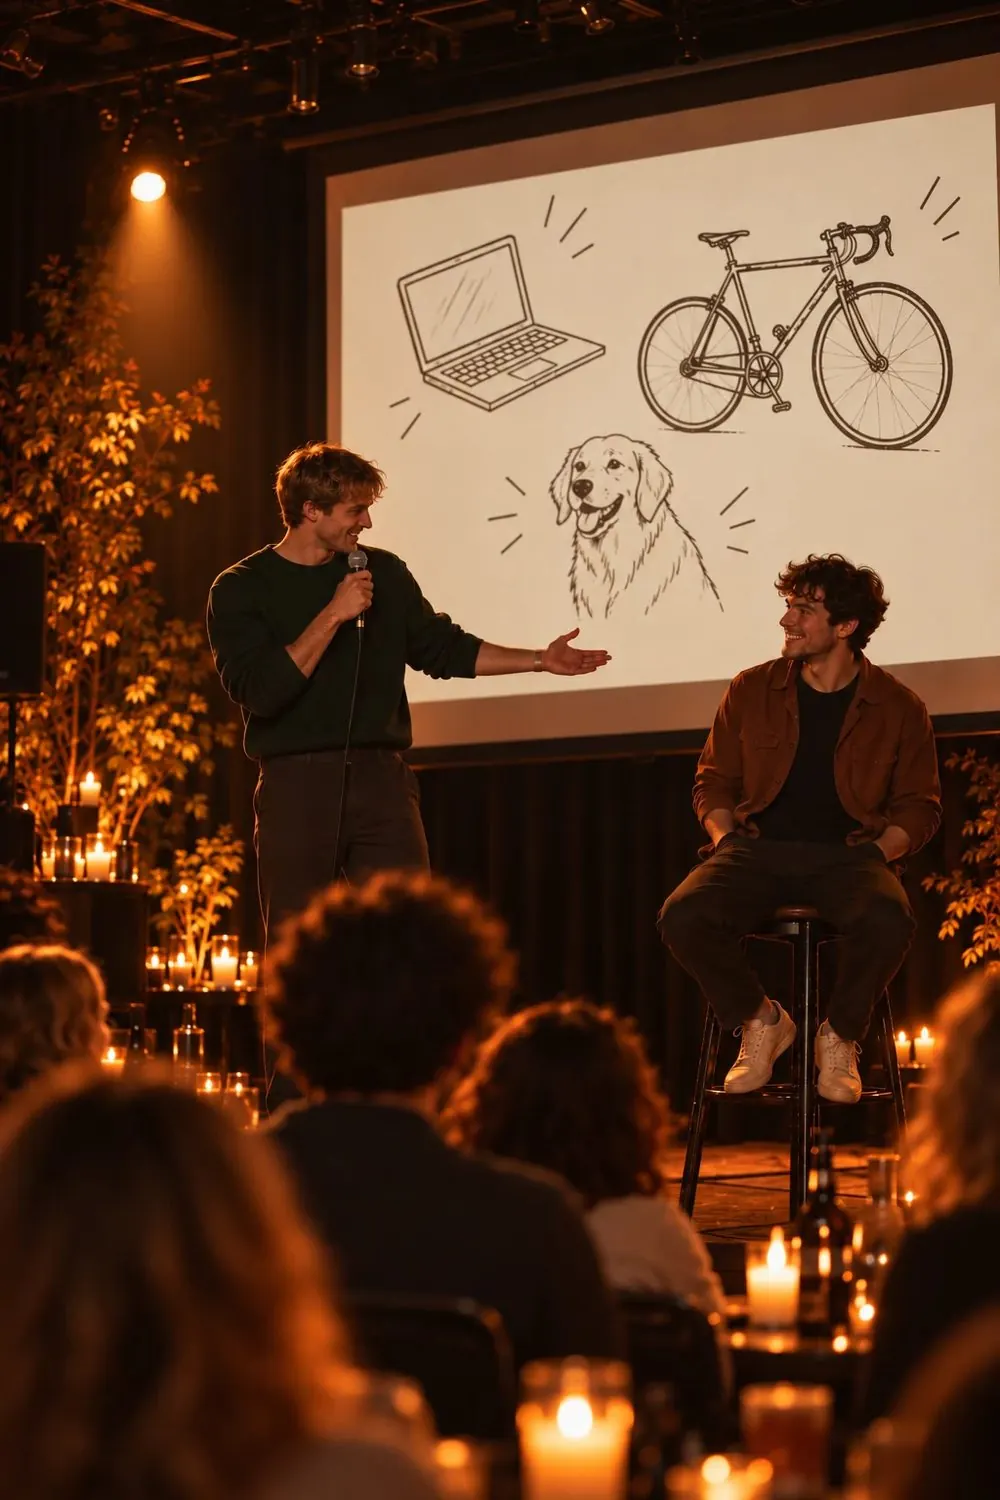
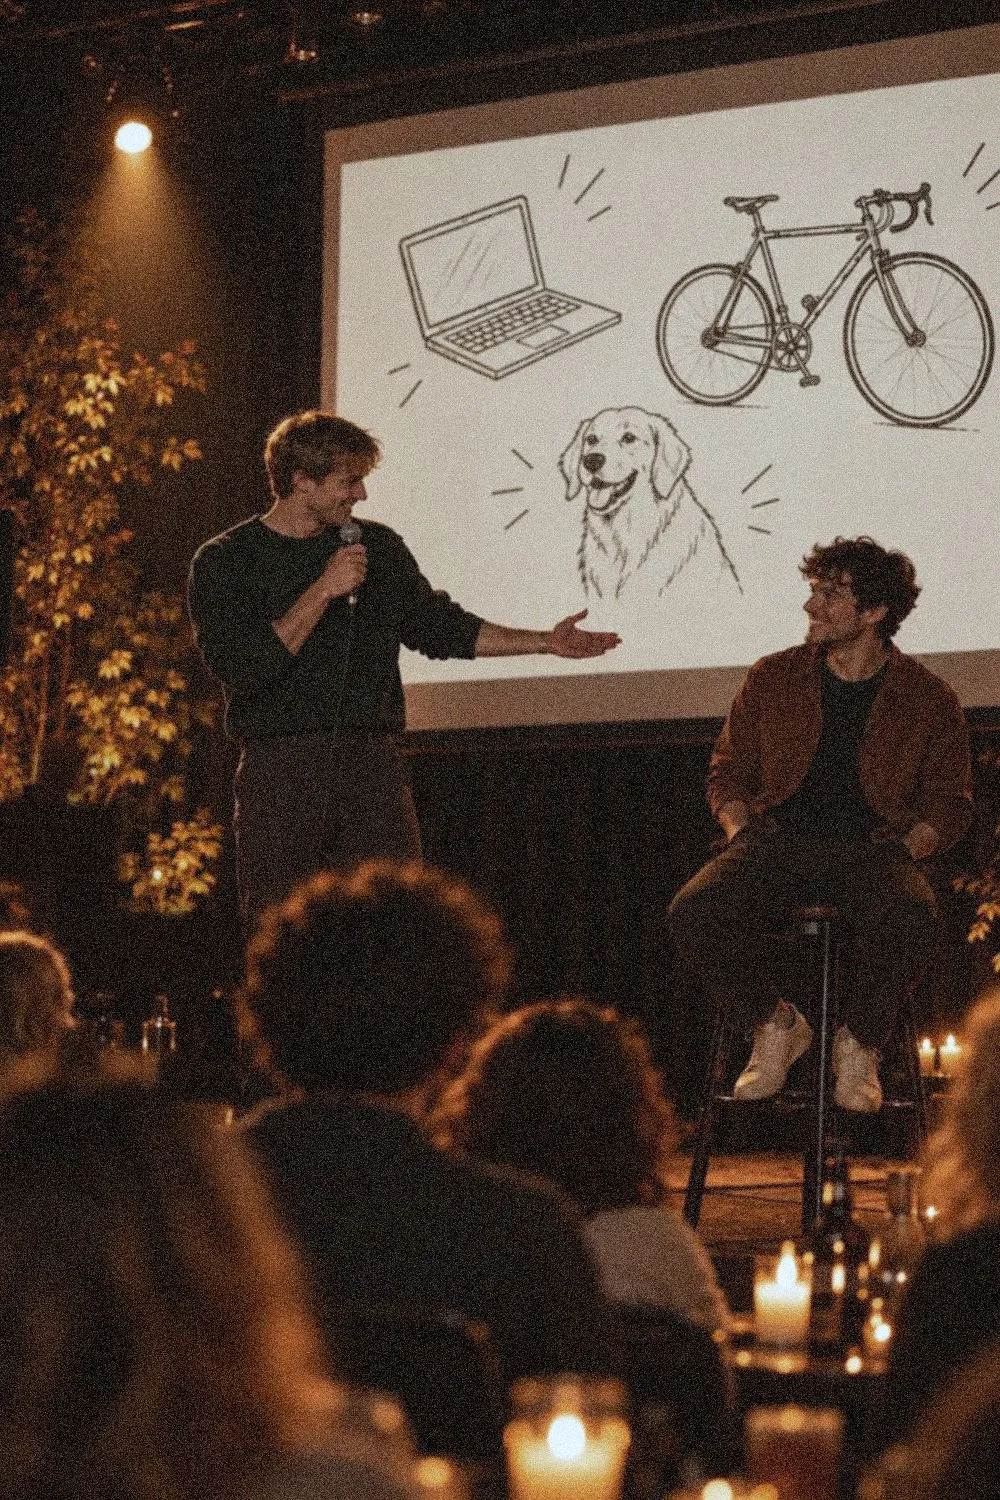
Fotka pódia: prirodzenejší vzhľad, bez sviečok za prezentujúcim

diff --git a/index.html b/index.html
@@ -189,7 +189,7 @@
             </div>
           </div>
           <div class="hero-photo podium-photo">
-            <img class="hero-img" loading="lazy" src="img/podium-prezentacia.webp?v=3" srcset="img/podium-prezentacia-600.webp?v=3 600w, img/podium-prezentacia-800.webp?v=3 800w, img/podium-prezentacia.webp?v=3 1000w" sizes="(max-width: 760px) 100vw, 40vw" alt="Kamarát na pódiu s mikrofónom predstavuje svojho single kamaráta, za nimi plátno s obrázkami jeho záľub" width="1000" height="1500">
+            <img class="hero-img" loading="lazy" src="img/podium-prezentacia.webp?v=4" srcset="img/podium-prezentacia-600.webp?v=4 600w, img/podium-prezentacia-800.webp?v=4 800w, img/podium-prezentacia.webp?v=4 1000w" sizes="(max-width: 760px) 100vw, 40vw" alt="Kamarát na pódiu s mikrofónom predstavuje svojho single kamaráta, za nimi plátno s obrázkami jeho záľub" width="1000" height="1500">
             <ul class="ifacts ifacts-ticket ifacts-lime ifacts-2x2">
               <li><p class="label">Na pódiu</p><strong>5 žien + 5 mužov</strong></li>
               <li><p class="label">Prezentácia</p><strong>max. 5 minút</strong></li>

diff --git a/single-show.html b/single-show.html
@@ -168,7 +168,7 @@
             </div>
           </div>
           <div class="hero-photo podium-photo">
-            <img class="hero-img" loading="lazy" src="img/podium-prezentacia.webp?v=3" srcset="img/podium-prezentacia-600.webp?v=3 600w, img/podium-prezentacia-800.webp?v=3 800w, img/podium-prezentacia.webp?v=3 1000w" sizes="(max-width: 760px) 100vw, 40vw" alt="Kamarát na pódiu s mikrofónom predstavuje svojho single kamaráta, za nimi plátno s obrázkami jeho záľub" width="1000" height="1500">
+            <img class="hero-img" loading="lazy" src="img/podium-prezentacia.webp?v=4" srcset="img/podium-prezentacia-600.webp?v=4 600w, img/podium-prezentacia-800.webp?v=4 800w, img/podium-prezentacia.webp?v=4 1000w" sizes="(max-width: 760px) 100vw, 40vw" alt="Kamarát na pódiu s mikrofónom predstavuje svojho single kamaráta, za nimi plátno s obrázkami jeho záľub" width="1000" height="1500">
             <ul class="ifacts ifacts-ticket ifacts-lime ifacts-2x2">
               <li><p class="label">Na pódiu</p><strong>5 žien + 5 mužov</strong></li>
               <li><p class="label">Prezentácia</p><strong>max. 5 minút</strong></li>
